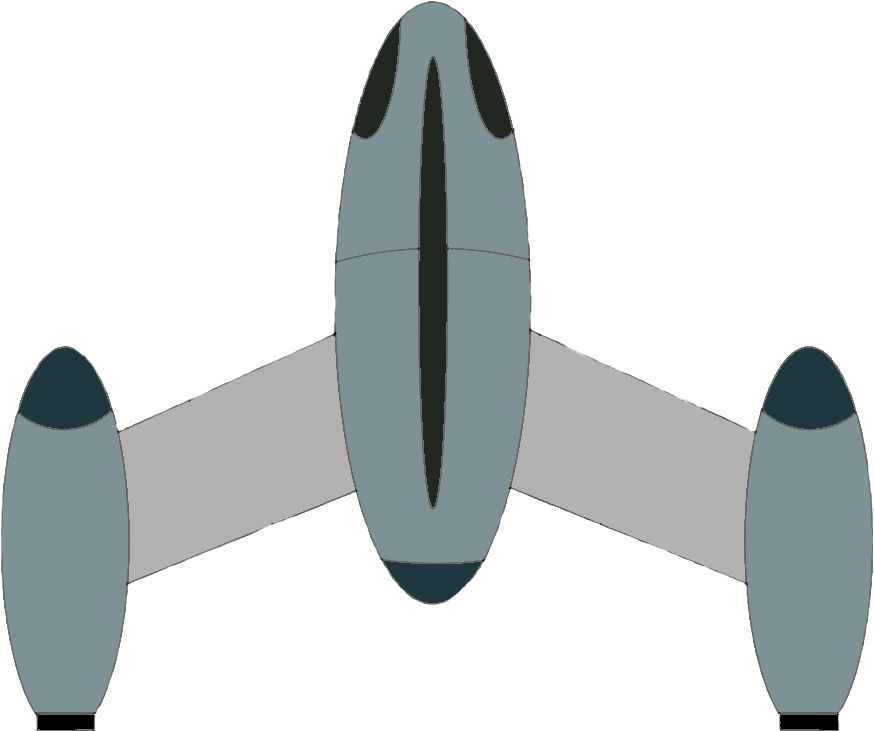
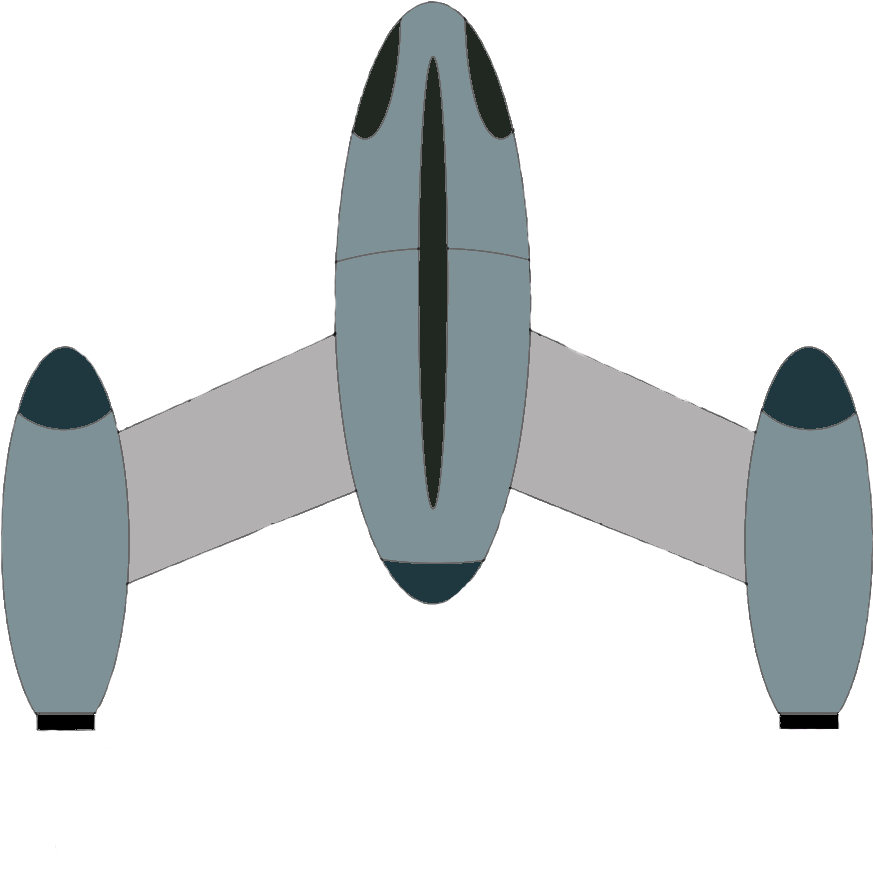
Added boost flames to spaceship. Made spaceship spin to the right constantly instead of the user having to rotate the device. Spaceship is moving up the screen when the game starts.

Changed region(s): [[0.0, 0.0, 1.0, 1.0]]

diff --git a/core/src/com/twodcrazedgaming/game/objects/Spaceship.java b/core/src/com/twodcrazedgaming/game/objects/Spaceship.java
@@ -16,8 +16,9 @@ import java.util.Calendar;
 public class Spaceship {
     private static final String TAG = Spaceship.class.getName();
 
-    private Texture texture = Assets.instance.getSpaceshipTexture();
-    private Sprite sprite = new Sprite(texture);
+    private Texture spaceshipTexture = Assets.instance.getSpaceshipTexture();
+    private Texture spaceshipWithBoostTexture = Assets.instance.getSpaceShipWithBoostTexture();
+    private Sprite sprite = new Sprite(spaceshipTexture);
     private Vector2 size;
     private Vector2 position;
     private float rotation;
@@ -41,6 +42,7 @@ public class Spaceship {
 
         sprite.setSize(size.x, size.y);
         sprite.setOrigin(size.x / 2, size.y / 2);
+        setBoost(2);
     }
 
     public void render(SpriteBatch batch) {
@@ -56,32 +58,12 @@ public class Spaceship {
         batch.end();
 
         fuelBar.render(batch);
-        createFlames(batch);
-    }
-
-    private void createFlames(SpriteBatch batch) {
-        Vector2 flameForLeftEnginePosition = position;
-        Vector2 flameForRightEnginePosition = position;
-        Flame flameForLeftEngine = new Flame(flameForLeftEnginePosition, rotation);
-        Flame flameForRightEngine = new Flame(flameForRightEnginePosition, rotation);
-
-        flameForLeftEngine.render(batch);
-        flameForRightEngine.render(batch);
     }
 
     private void handleTurning() {
-        float orientation =  Gdx.input.getAccelerometerX();
-
-        if(orientation > 1){
-            rotation = rotation + 1;
-            if(rotation==361){
-                rotation = 1;
-            }
-        }else if(orientation < -1){
-            rotation = rotation - 1;
-            if(rotation==-1){
-                rotation = 359;
-            }
+        rotation = rotation + 1;
+        if(rotation==361){
+            rotation = 1;
         }
     }
 
@@ -100,6 +82,7 @@ public class Spaceship {
 
     public void startBoost(){
         if(fuelLevel != 0) {
+            sprite.setTexture(spaceshipWithBoostTexture);
             setBoost(2);
             playBoostSound();
             useFuel();
@@ -137,10 +120,12 @@ public class Spaceship {
             fuelLevel = fuelLevel - 10;
             fuelBar.updateFuelBar(fuelLevel);
         }
+
         Gdx.app.debug(TAG, "fuel used. fuel level is now: " + fuelLevel);
     }
 
     public void startRefueling() {
+        sprite.setTexture(spaceshipTexture);
         lastTimeSpaceshipRefueled = Calendar.getInstance().getTimeInMillis();
     }
 

diff --git a/core/src/com/twodcrazedgaming/common/Assets.java b/core/src/com/twodcrazedgaming/common/Assets.java
@@ -28,7 +28,7 @@ public class Assets implements Disposable, AssetErrorListener {
         this.assetManager = assetManager;
         assetManager.setErrorListener(this);
         assetManager.load(Constants.SPACESHIP_PNG, Texture.class);
-        assetManager.load(Constants.FLAME_PNG, Texture.class);
+        assetManager.load(Constants.SPACESHIP_WITH_BOOST_PNG, Texture.class);
         assetManager.load(Constants.FUEL_BARS_PNG, Texture.class);
         assetManager.load(Constants.SPACE_BACKGROUND_PNG, Texture.class);
         assetManager.load(Constants.SPACE_OGG, Music.class);
@@ -55,8 +55,8 @@ public class Assets implements Disposable, AssetErrorListener {
         return assetManager.get(Constants.SPACESHIP_PNG);
     }
 
-    public Texture getFlameTexture(){
-        return assetManager.get(Constants.FLAME_PNG);
+    public Texture getSpaceShipWithBoostTexture(){
+        return assetManager.get(Constants.SPACESHIP_WITH_BOOST_PNG);
     }
 
     public TextureRegion getFuelBarTexture(int level) {

diff --git a/core/src/com/twodcrazedgaming/common/Constants.java b/core/src/com/twodcrazedgaming/common/Constants.java
@@ -9,7 +9,7 @@ public class Constants {
 
     //Assets
     public static final String SPACESHIP_PNG = "images/spaceship.png";
-    public static final String FLAME_PNG = "images/flame.png";
+    public static final String SPACESHIP_WITH_BOOST_PNG = "images/spaceship_with_boost.png";
     public static final String FUEL_BARS_PNG = "images/fuel_bars.png";
     public static final String SPACE_BACKGROUND_PNG = "images/space_background.png";
     public static final String BOOST_OGG = "sounds/boost.ogg";
